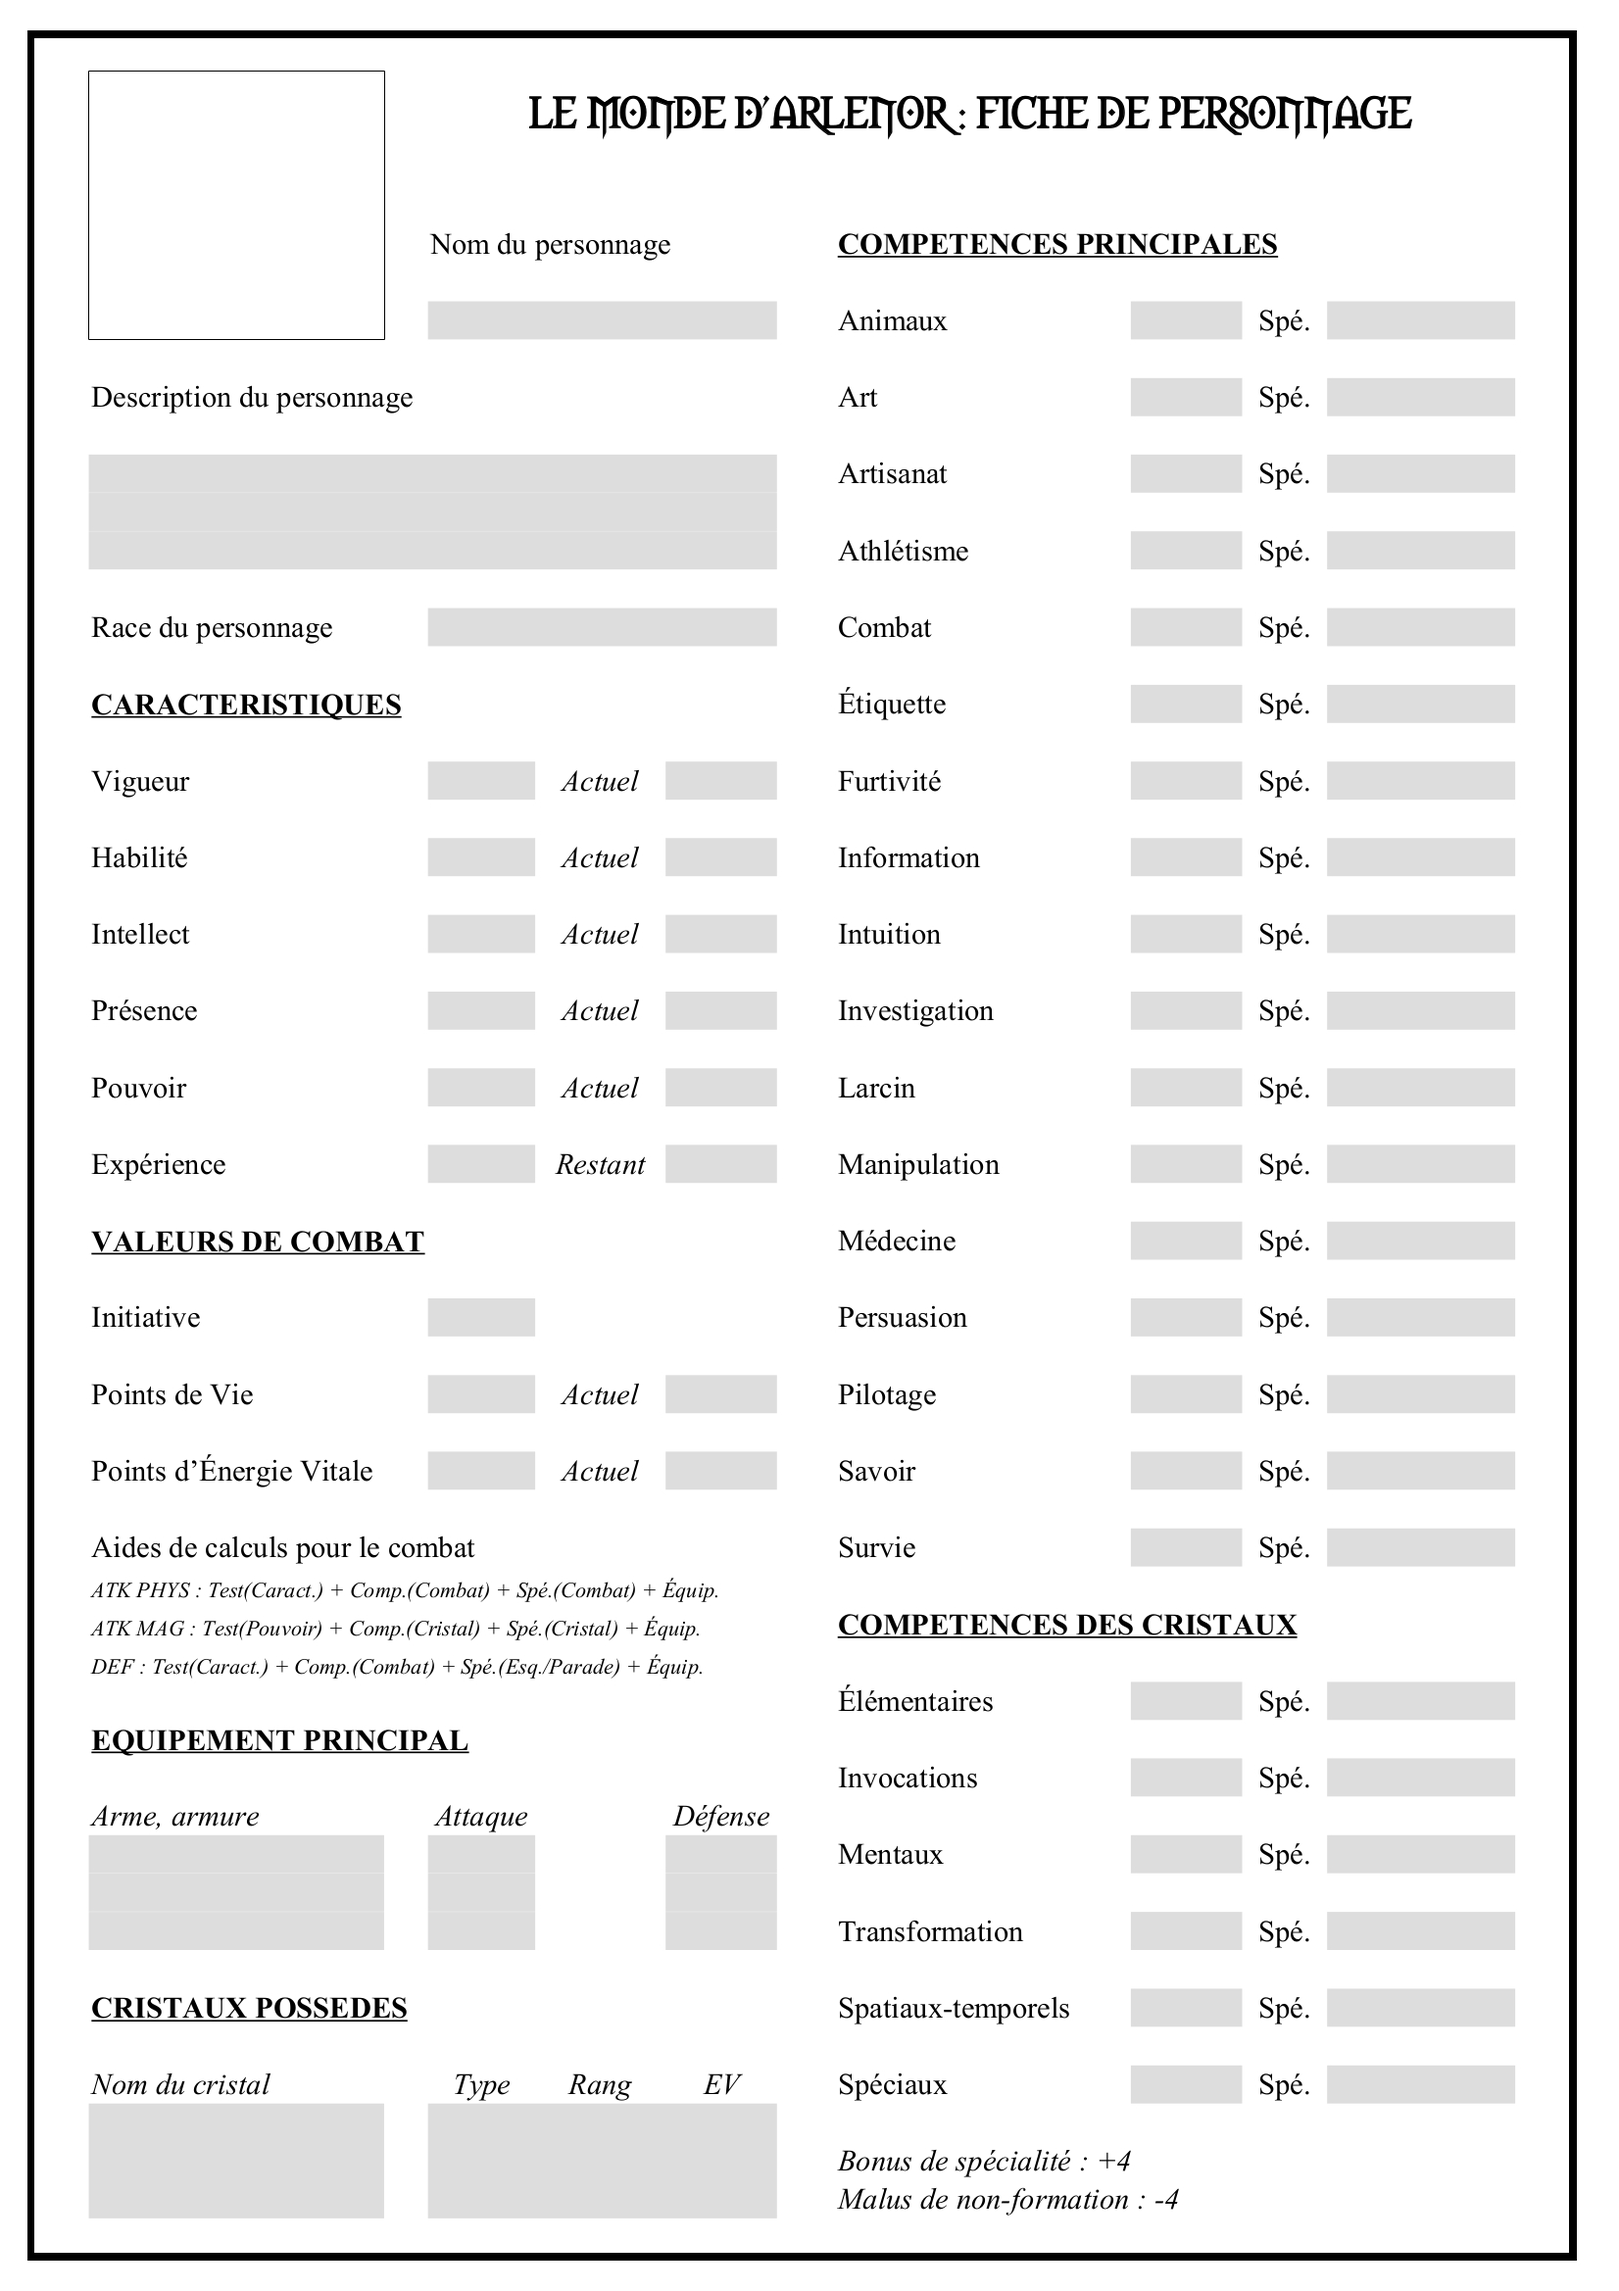
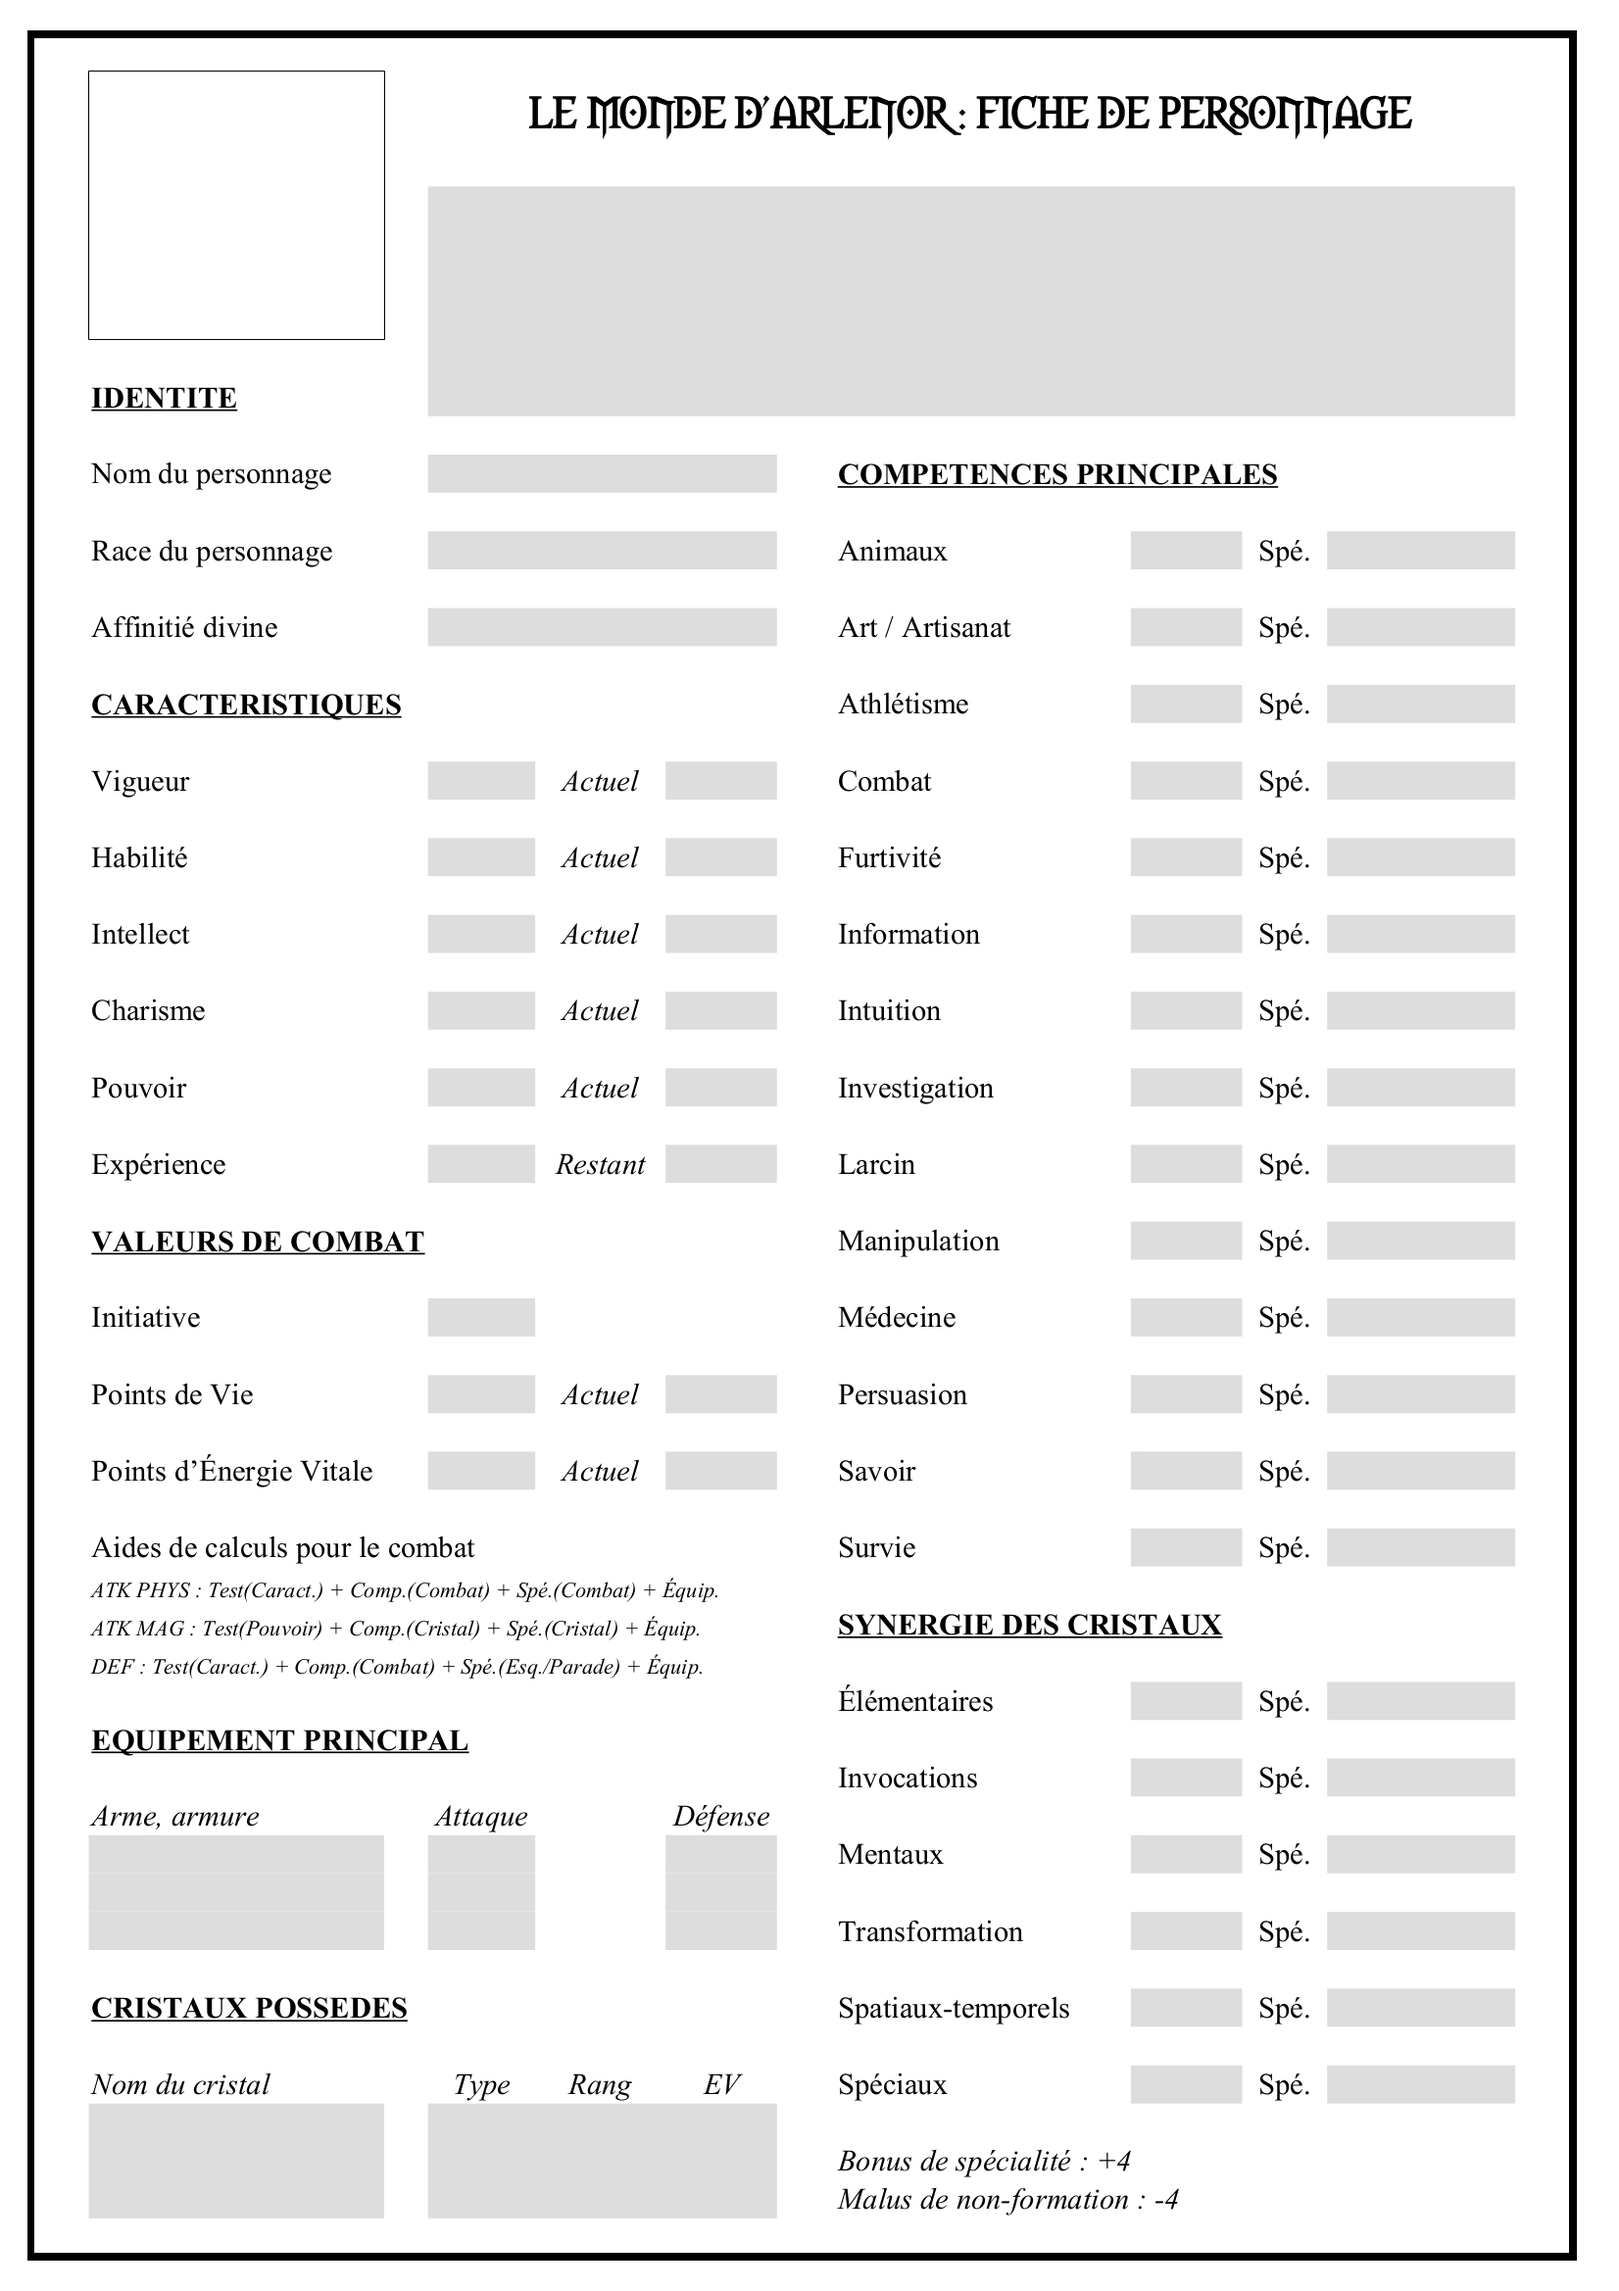
Refactor(creation): Fix points, change race description, and modify the pdf

diff --git a/src/app/pages/roleplay/creation/creation.component.ts b/src/app/pages/roleplay/creation/creation.component.ts
@@ -413,11 +413,18 @@ export class CreationComponent {
 			infos += "Votre personne n'a plus de points de Vie... Attention lors que vous êtes arlénien, vous perdez des PV à chaque cristal tatoué sur le corps.<br>";
 		}
 
-		if (this.leftPointsSkills > 0) {
+		if (this.leftPointsMainSkills > 0) {
 			infos += "Il reste des points de compétences à dépenser.<br>";
 		}
-		if (this.leftPointsSkills < 0) {
+		if (this.leftPointsMainSkills < 0) {
 			infos += "Vous avez dépensé trop de points de compétences (votre personnage a déjà obtenu de l'eXPérience ?).<br>";
+		}
+
+		if (this.leftPointsCrystalSkills > 0) {
+			infos += "Il reste des points de compétences de cristaux à dépenser.<br>";
+		}
+		if (this.leftPointsCrystalSkills < 0) {
+			infos += "Vous avez dépensé trop de points de compétences de cristaux (votre personnage a déjà obtenu de l'eXPérience ?).<br>";
 		}
 
 		if (!this.crystal01.name && !this.crystal02.name && !this.crystal03.name) {
@@ -467,7 +474,6 @@ export class CreationComponent {
 				this.caracteristics = parameters.caracteristics;
 				this.mainSkills = parameters.mainSkills;
 				this.crystalSkills = parameters.crystalSkills;
-				this.nbPointsCaracteristics = parameters.nbPointsCaracteristics;
 				this.crystal01 = parameters.crystal01;
 				this.crystal02 = parameters.crystal02;
 				this.crystal03 = parameters.crystal03;
@@ -489,7 +495,6 @@ export class CreationComponent {
 			caracteristics: this.caracteristics,
 			mainSkills: this.mainSkills,
 			crystalSkills: this.crystalSkills,
-			nbPointsCaracteristics: this.nbPointsCaracteristics,
 			crystal01: this.crystal01,
 			crystal02: this.crystal02,
 			crystal03: this.crystal03,
@@ -542,16 +547,17 @@ export class CreationComponent {
 		});
 
 		Promise.all([promise]).then(() => {
-			doc.text(122, 90.5, "" + this.name);
 			if (this.avatar) doc.addImage(this.avatar, "JPEG", 25, 20, 81.5, 73);
-			doc.text(29.3, 134, "" + this.description, {
+			doc.text(122, 59, "" + this.description, {
 				align: "justify",
-				maxWidth: 181
+				maxWidth: 290
 			});
+
+			doc.text(122, 132.9, "" + this.name);
 
 			LIST_RACES.forEach(element => {
 				if (this.race === element.id) {
-					doc.text(122, 175, element.name);
+					doc.text(122, 154.1, element.name);
 				}
 			});
 
@@ -615,7 +621,7 @@ export class CreationComponent {
 				if (this.race === 6) doc.text(199, i, "" + this.crystal03.demiEV, { align: "center" });
 			}
 
-			i = 90.4;
+			i = 154.0;
 			for (var key in this.mainSkills) {
 				doc.text(326.5, i, "" + this.mainSkills[key].value, {	align: "center"	});
 				doc.setFontSize(8);

diff --git a/src/app/pages/roleplay/creation/creation.component.html b/src/app/pages/roleplay/creation/creation.component.html
@@ -432,6 +432,7 @@
 			</table>
 		</div>
 	</div>
+	<p innerHtml="{{ 'CREATION.SKILLS.TEXT04' | translate }}"></p>
 	<p [ngClass]="{ warning: leftPointsSkills < 0 }" class="creation-points">
 		{{ "CREATION.INDICS.LEFTPOINTS" | translate }} :
 		<b>{{ leftPointsCrystalSkills }}</b>
@@ -824,10 +825,10 @@
 			<p innerHtml="{{ 'CREATION.IDENTITY.TEXT' | translate }}"></p>
 			<span>Nom du personnage</span>
 			<input type="text" value="{{ name }}" (change)="changeName($event.target)" />
-			<span>Description rapide du personnage (max : 130 caract.)</span>
+			<span>Description / histoire du personnage (max : 580 caract.)</span>
 			<textarea
 				value="{{ description }}"
-				maxlength="130"
+				maxlength="580"
 				(change)="changeDescription($event.target)"
 			></textarea>
 		</div>

diff --git a/src/app/models/creation.model.ts b/src/app/models/creation.model.ts
@@ -32,7 +32,7 @@ export const LIST_RACES = [
 	{
 		id: 6,
 		name: "Arlénien",
-		pe: 10,
+		pe: 8,
 		nbPointsSkills: 33
 	}
 ];

diff --git a/src/app/pages/roleplay/creation/creation.component.scss b/src/app/pages/roleplay/creation/creation.component.scss
@@ -115,6 +115,7 @@
 	}
 
 	.creation-points {
+		margin-top: 0;
 		text-align: center;
 	}
 
